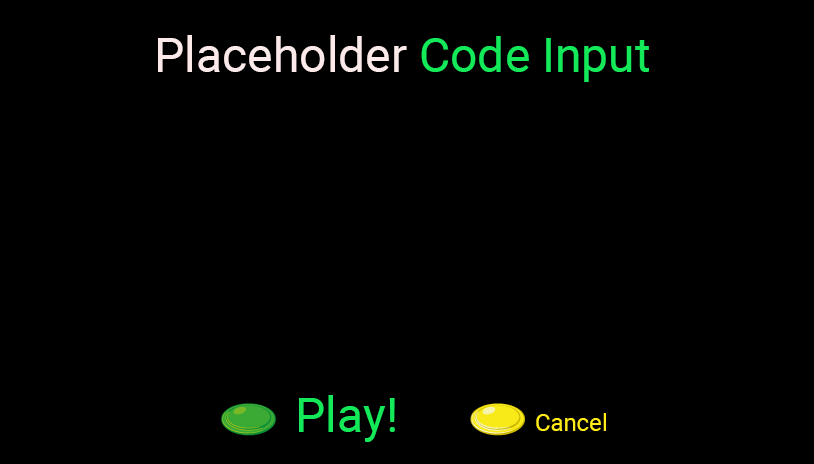
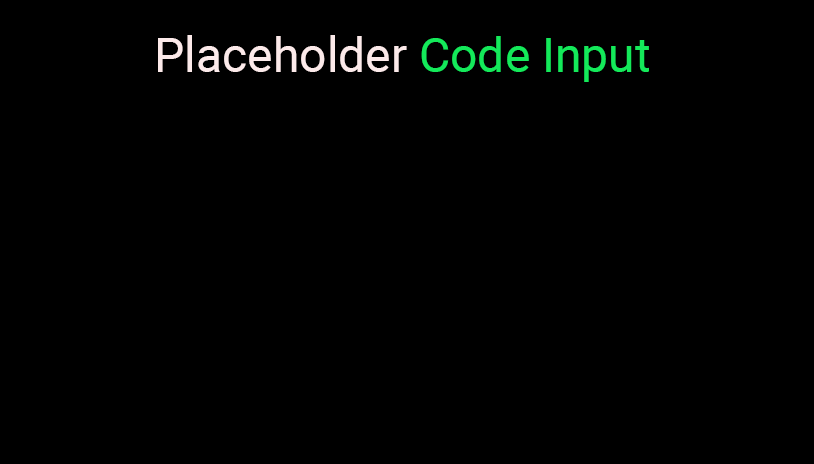
inserting works

Changed region(s): [[0.3686, 0.8448, 0.4914, 0.9655], [0.5528, 0.8448, 0.7678, 0.9353], [0.2764, 0.8448, 0.3378, 0.9353]]

diff --git a/src/js/screensaver.js b/src/js/screensaver.js
@@ -111,11 +111,22 @@
     // boolean for storing waste insert is triggered
     var blockInsert = false;
 
+    // Logic varsfor making API magic work
+    var currentStudId;
+    var numberofwaste;
+    // how much waste have we thrown in (currently)
+    var numberwaste = 0;
+    var numbertext = 'aantal afval:';
+    var ntext;
+    // button help images throw in screen
+    var okplay;
+    var nogoback;
+    var gobackx2 = 0;
 
     Screensaver.prototype = {
         create: function () {
             credit = localStorage.getItem('credits');
-            credit--;
+
             blockInsert = false;
             localStorage.setItem('credits', credit);
 
@@ -127,14 +138,13 @@
             video.stop();
             video.play(true);
 
-
             sprite = video.addToWorld(0, 0, 0, 0);
             sprite.x = 0;
             sprite.y = 0;
 
             // timer for choosing teams
             counter = 45;
-
+            numberwaste = 0;
             animationstarted = false;
             is1player = true;
             recyclespeel = this.game.add.sprite(70, 200, 'recyclespeel');
@@ -158,14 +168,10 @@
             readytoplay = false;
             this.game.multiplay = false;
 
-
-
-
-
             cursors = this.game.input.keyboard.createCursorKeys();
 
-
             keyz = this.input.keyboard.addKey(Phaser.Keyboard.Z);
+            keyx = this.input.keyboard.addKey(Phaser.Keyboard.X);
             keyi = this.input.keyboard.addKey(Phaser.Keyboard.I);
 
             key0 = this.input.keyboard.addKey(Phaser.Keyboard.ZERO);
@@ -185,6 +191,7 @@
 
             keyz.onDown.add(this.onDown, this);
             keyi.onDown.add(this.onDown, this);
+            keyx.onDown.add(this.onDown, this);
 
             key0.onDown.add(this.onDownNumber, this);
             key1.onDown.add(this.onDownNumber, this);
@@ -197,27 +204,34 @@
             key8.onDown.add(this.onDownNumber, this);
             key9.onDown.add(this.onDownNumber, this);
 
-
-
-
-
-
             timerdisplay2 = this.game.add.bitmapText(this.game.world.centerX + 6, 40, 'scorefont', 'testtimer', 45);
             timerdisplay2.anchor.setTo(0.5, 0.5);
             timerdisplay2.visible = true;
             timerdisplay2.setText(" ");
 
-            inputthisplay = this.game.add.bitmapText(this.game.world.centerX - 130, 140, 'scorefont', 'pin', 70);
+            inputthisplay = this.game.add.bitmapText(this.game.world.centerX, 200, 'scorefont', 'pin', 70);
             inputthisplay.visible = true;
-            inputthisplay.setText(" ");
+            inputthisplay.setText("");
 
+
+            okplay = this.game.add.image(this.game.width / 8 * 2.5, 420, 'okplay');
+            okplay.anchor.setTo(0.5, 0.5);
+            okplay.visible = false;
+            nogoback = this.game.add.image(this.game.width / 8 * 5.5, 420, 'nogoback');
+            nogoback.anchor.setTo(0.5, 0.5);
+            nogoback.visible = false;
+
+            numbertext = this.game.add.bitmapText(this.game.world.centerX, 320, 'scorefont', 'aantal:', 20);
+            ntext = this.game.add.bitmapText(this.game.world.centerX, 380, 'scorefont', '', 50);
+            numbertext.anchor.setTo(0.5, 0.5);
+            numbertext.visible = false;
+            ntext.anchor.setTo(0.5, 0.5);
+            ntext.visible = false;
 
             // WARNING IMG
             warning = this.game.add.image(this.game.width / 8 * 4, 300, 'warning');
             warning.anchor.set(0.5, 0.5);
             warning.visible = false;
-
-
         },
         resetLocalStorage: function () {
             console.log('check');
@@ -266,8 +280,16 @@
                     kiesspelers.alpha = 0;
                     letsplay.alpha = 0;
                     animationstarted = false;
-
                     blockInsert = false;
+
+                    gobackx2 = 0;
+                    enternumber = false;
+                    nogoback.visible = false;
+                    blockInsert = false;
+                    numbertext.visible = false;
+                    ntext.visible = false;
+                    enternumberpng.visible = false;
+
                     //this.game.state.start('platformer', true, false);
                 }
 
@@ -276,11 +298,8 @@
                     timerdisplay2.setText(counter);
                 }
             }
-
             ,
-
         update: function () {
-
             if (cursors.left.isDown) {
                 //  Move to the left
                 // this.game.state.start('menu', true, false);
@@ -293,9 +312,7 @@
                 selectie.x = 550;
                 this.game.multiplay = true;
             }
-
             /*canvas.clear();
-
       for (var i = 0; i < max; i++) {
         var perspective = distance / (distance + zz[i]);
         var x = this.game.world.centerX + xx[i] * perspective;
@@ -342,48 +359,57 @@
         canvas.draw('tel3', x, y);
       }
 */
-
         },
         onDownNumber: function (key) {
-
             // Only when the state of entering pin is enter allow this input
-            if (enternumber === true && inputthisplay.text.length < 6) {
+            if (enternumber === true && inputthisplay.text.length < 5) {
+                gobackx2 = 0;
                 let newNumber;
                 console.log(key.keyCode);
                 switch (key.keyCode) {
                     case 48:
-                    newNumber = '0'
+                        newNumber = '0'
                         break;
                     case 49:
-                    newNumber = '1';
+                        newNumber = '1';
                         break;
                     case 50:
-                    newNumber = '2';
+                        newNumber = '2';
                         break;
                     case 51:
-                    newNumber = '3';
+                        newNumber = '3';
                         break;
                     case 52:
-                    newNumber = '4';
+                        newNumber = '4';
                         break;
                     case 53:
-                    newNumber = '5';
+                        newNumber = '5';
                         break;
                     case 54:
-                    newNumber = '6';
+                        newNumber = '6';
                         break;
                     case 55:
-                    newNumber = '7';
+                        newNumber = '7';
                         break;
                     case 56:
-                    newNumber = '8';
+                        newNumber = '8';
                         break;
                     case 57:
-                    newNumber = '9';
+                        newNumber = '9';
                         break;
                 }
                 // Switch KEY
                 inputthisplay.setText(inputthisplay.text + newNumber);
+                inputthisplay.anchor.setTo(0.5, 0.5);
+                // 5 character display
+                if (inputthisplay.text.length === 5) {
+                    // TODO: YEAH LET's GO!
+                    numberentered = true;
+                    okplay.visible = true;
+                } else {
+                    numberentered = false;
+                    okplay.visible = false;
+                }
             }
 
 
@@ -394,14 +420,60 @@
             if (key.keyCode === 73 && blockInsert === false && enternumber === false) {
                 blockInsert = true;
                 numberentered = false;
+                numberwaste = 0;
+                ntext.text = numberwaste;
                 // enternumber = true;
                 this.insertNumber();
                 //this.kiesspeler();
             }
 
-            // if readytoplay flase en number is ready to be entered
-            if (key.keyCode === 90 && readytoplay === false && enternumber === true) {
+            if (key.keyCode === 73 && blockInsert === true){
+                numberwaste++;
+                ntext.text = numberwaste;
+            }
+
+
+
+
+            // if readytoplay false en number is ready to be entered
+            if (key.keyCode === 90 && readytoplay === false && numberentered === true) {
                 // Here we should catch the accept and cancel buttons
+                numberentered = false;
+                nogoback.visible = false;
+                numbertext.visible = false;
+                okplay.visible = false;
+                ntext.visible = false;
+                enternumberpng.visible = false;
+
+                // TODO: Here comes the API CALL to send it
+                console.log('StudID = ' + inputthisplay.text);
+                console.log('Amount of waste = ' + numberwaste);
+
+                this.kiesspeler();
+
+            }
+
+            // Canelbutton Name
+            if (key.keyCode === 88 && readytoplay === false && enternumber === true) {
+                numberentered = false;
+                okplay.visible = false;
+                if (inputthisplay.text.length === 0) {
+                    gobackx2++;
+                    console.log('goback');
+                    if (gobackx2 === 2) {
+                        gobackx2 = 0;
+                        enternumber = false;
+                        nogoback.visible = false;
+                        blockInsert = false;
+                        numbertext.visible = false;
+                        ntext.visible = false;
+                        enternumberpng.visible = false;
+                    }
+                }
+                if (inputthisplay.text.length >= 1) {
+                    let newVal = inputthisplay.text.substring(0, inputthisplay.text.length - 1);
+                    inputthisplay.setText(newVal);
+                }
             }
 
 
@@ -410,6 +482,10 @@
                 video.stop();
                 this.game.time.events.remove(chooseloop);
                 blockInsert = false;
+                currentStudId = "";
+                numberwaste = 0;
+                enternumber = false;
+                numberentered = false;
                 this.game.state.start('platformer', true, false);
             }
 
@@ -420,6 +496,7 @@
             levelsound.play();
             console.log("comes here");
             kiesspelers.alpha = 1;
+            
             kiesspelerstween = this.game.add.tween(kiesspelers).to({
                 y: this.game.height / 2
             }, 1000, Phaser.Easing.Bounce.Out, true);
@@ -437,6 +514,8 @@
         kiesspeler: function () {
             if (animationstarted === false) {
                 timerdisplay2.visible = true;
+                inputthisplay.alpha = 0;
+                enternumberpng.alpha = 0;
                 animationstarted = true;
                 this.game.stage.backgroundColor = "#000";
                 letsplay.alpha = 1;
@@ -452,6 +531,7 @@
         insertNumber: function () {
             if (animationstarted2 === false) {
                 animationstarted2 = false;
+                enternumberpng.visible = true;
                 this.game.stage.backgroundColor = "#fff";
                 enternumberpng.alpha = 1;
                 inputnumbertween = this.game.add.tween(enternumberpng).from({
@@ -464,6 +544,10 @@
         inputtweendone: function () {
             console.log('comes here');
             enternumber = true;
+            nogoback.visible = true;
+            numbertext.visible = true;
+            ntext.visible = true;
+            enternumberpng.visible = true;
         }
 
 

diff --git a/src/js/preloader.js b/src/js/preloader.js
@@ -26,6 +26,9 @@
             this.load.image('stopbord', 'assets/stopbord.png');
             this.load.image('perron', 'assets/perron.png');
 
+            this.load.image('okplay', 'assets/okplay.png');
+            this.load.image('nogoback', 'assets/backupbackup.png');
+
             this.load.spritesheet('stoplicht', 'assets/stoplicht.png', 140, 56);
             this.load.spritesheet('ssplastic', 'assets/ssplastic.png', 70, 70);
             this.load.spritesheet('sspapier', 'assets/sspapier.png', 70, 70);

diff --git a/src/js/boot.js b/src/js/boot.js
@@ -35,7 +35,7 @@
             this.game.aantalphones = localStorage.getItem('aantalphones');
             this.game.aantalafval = localStorage.getItem('aantalafval');
 
-            console.log("Aantal afval ingegooid is:" + this.game.aantalafval);
+            // console.log("Aantal afval ingegooid is:" + this.game.aantalafval);
             if (this.game.credits === null) {
                 var cred = 0;
                 localStorage.setItem('credits', cred);
